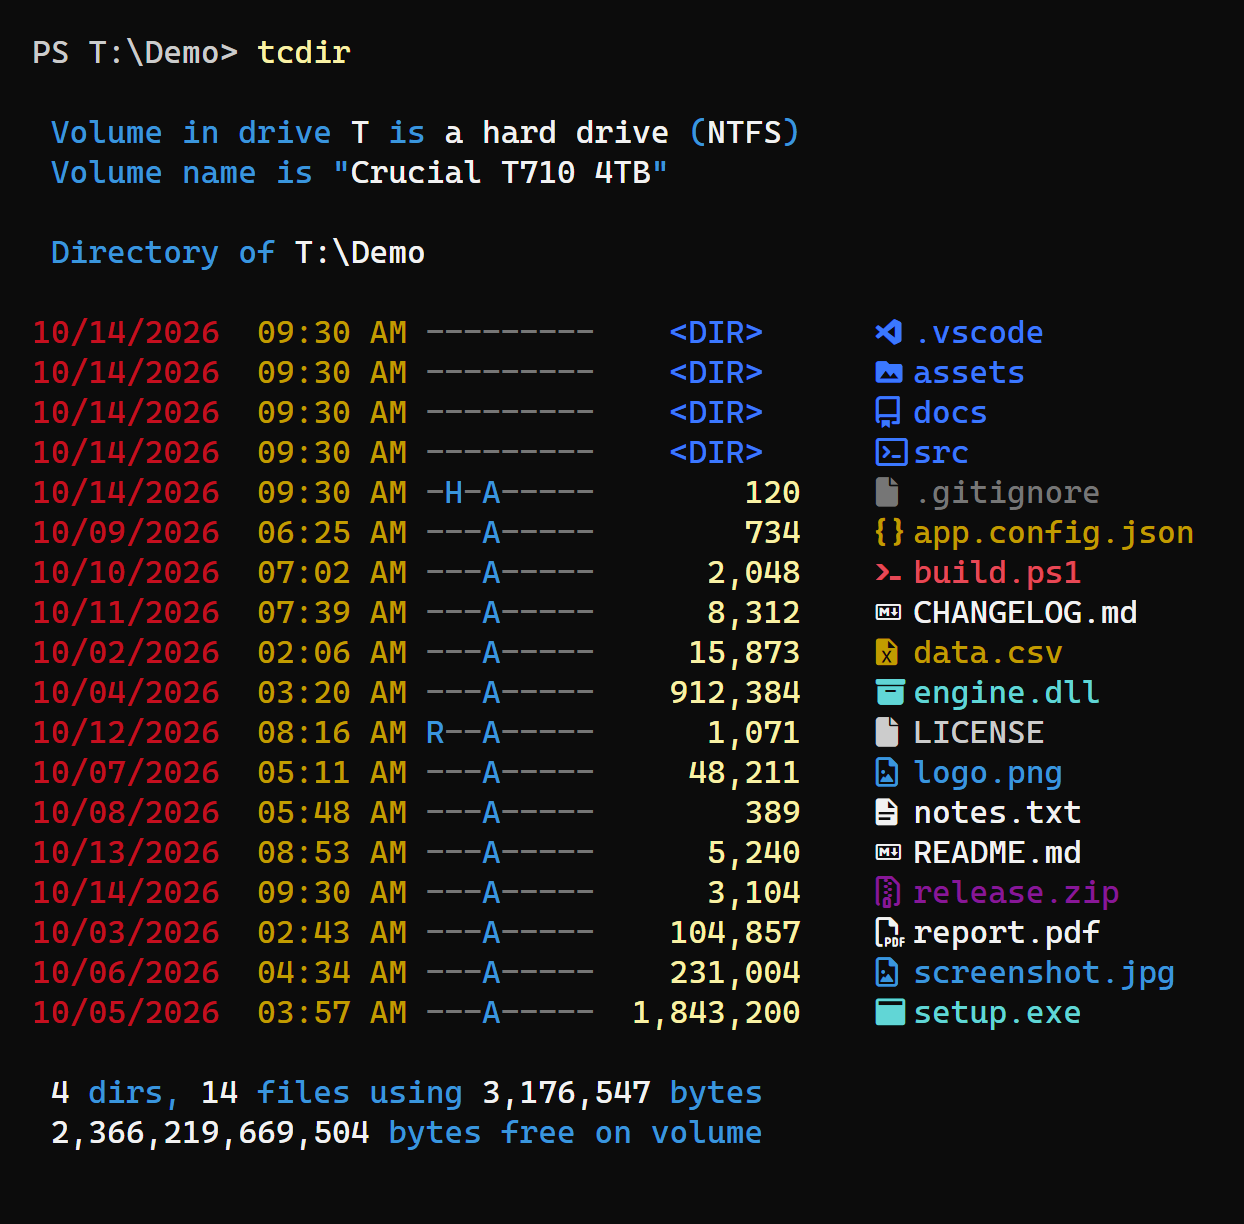
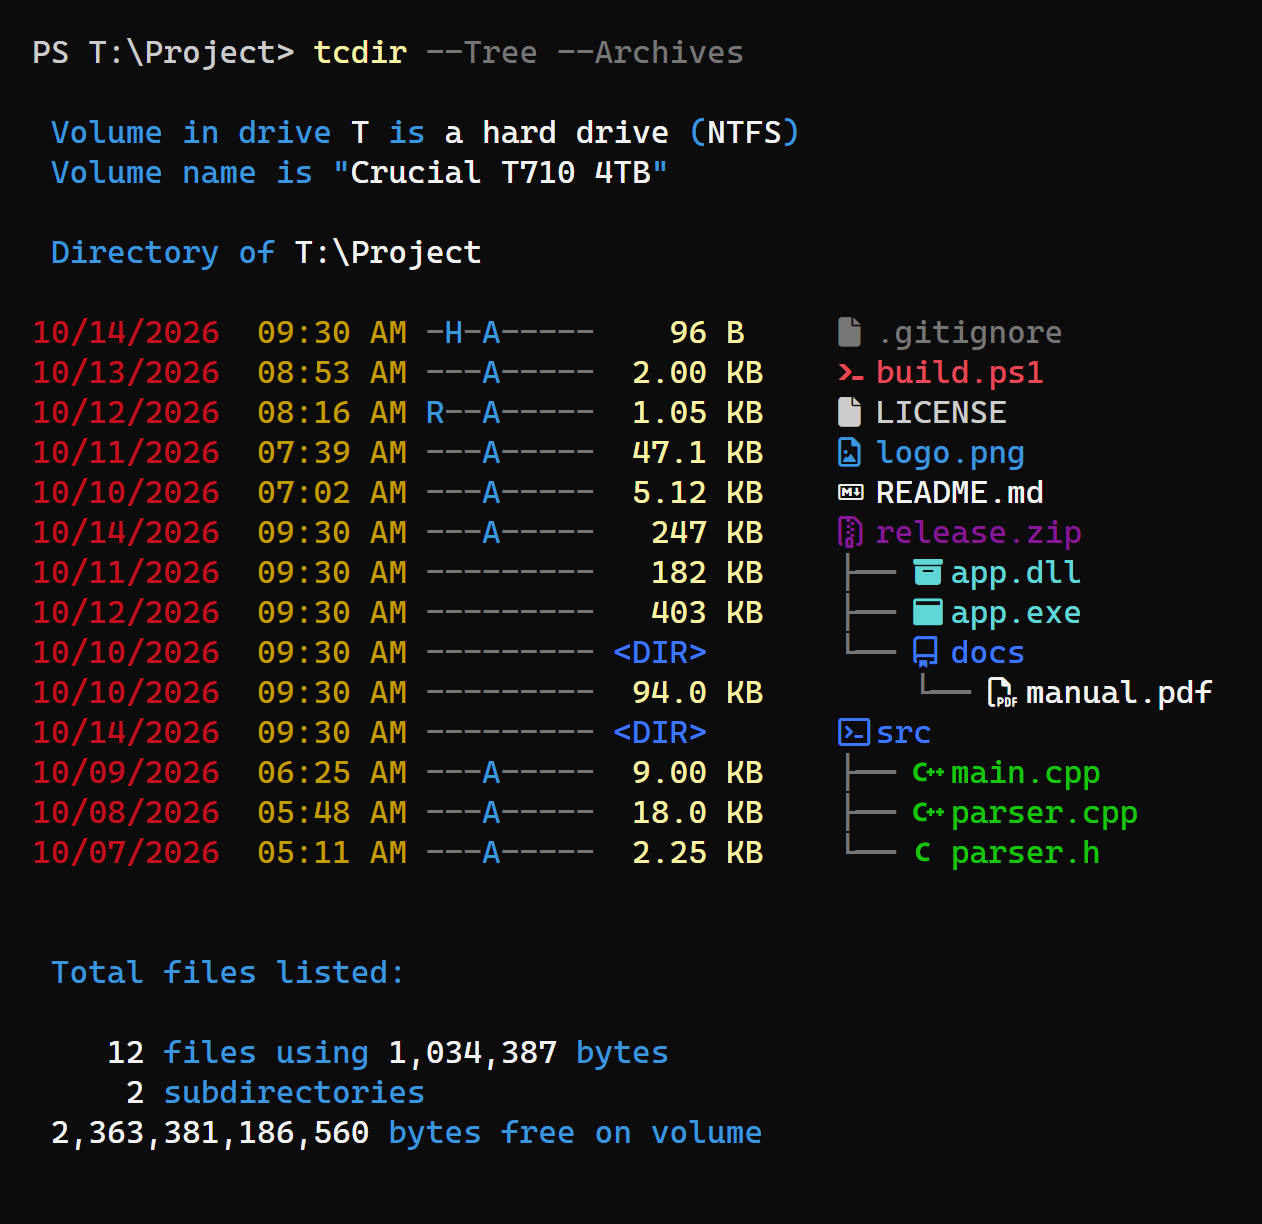
docs(readme): Use a tree listing with an expanded archive as the first screenshot

diff --git a/README.md b/README.md
@@ -21,7 +21,7 @@ TCDir ("Technicolor Directory") is a fast, colorized directory listing tool for 
 It's designed as a practical `dir`-style command with useful defaults (color by extension/attributes, Nerd Font file/folder icons, sorting, recursion, wide output, and a multi-threaded enumerator).
 Settings can be persisted in a config file (`~\.tcdirconfig`), overridden via the `TCDIR` environment variable, or specified on the command line.
 
-![TCDir basic listing](Assets/TCDir.png)
+![TCDir tree listing that expands a .zip archive](Assets/TCDir.png)
 
 ## What's New
 
@@ -54,7 +54,6 @@ Hat tip to [Chris Kirmse](https://github.com/ckirmse) whose excellent [ZDir](htt
 | Nerd Font file/folder icons | — | ✅ | ✅ | ✅ |
 | Tree view with full metadata | — | ✅ | ✅ | ✅ |
 | Multi-threaded enumeration | — | ✅ | — | — |
-| Native Windows (no WSL/MSYS) | ✅ | ✅ | ✅ | ✅ |
 | Familiar `dir` switch syntax | ✅ | ✅ | — | — |
 | ARM64 native binary | ✅ | ✅ | — | — |
 | NTFS alternate data streams | ✅ | ✅ | — | — |
